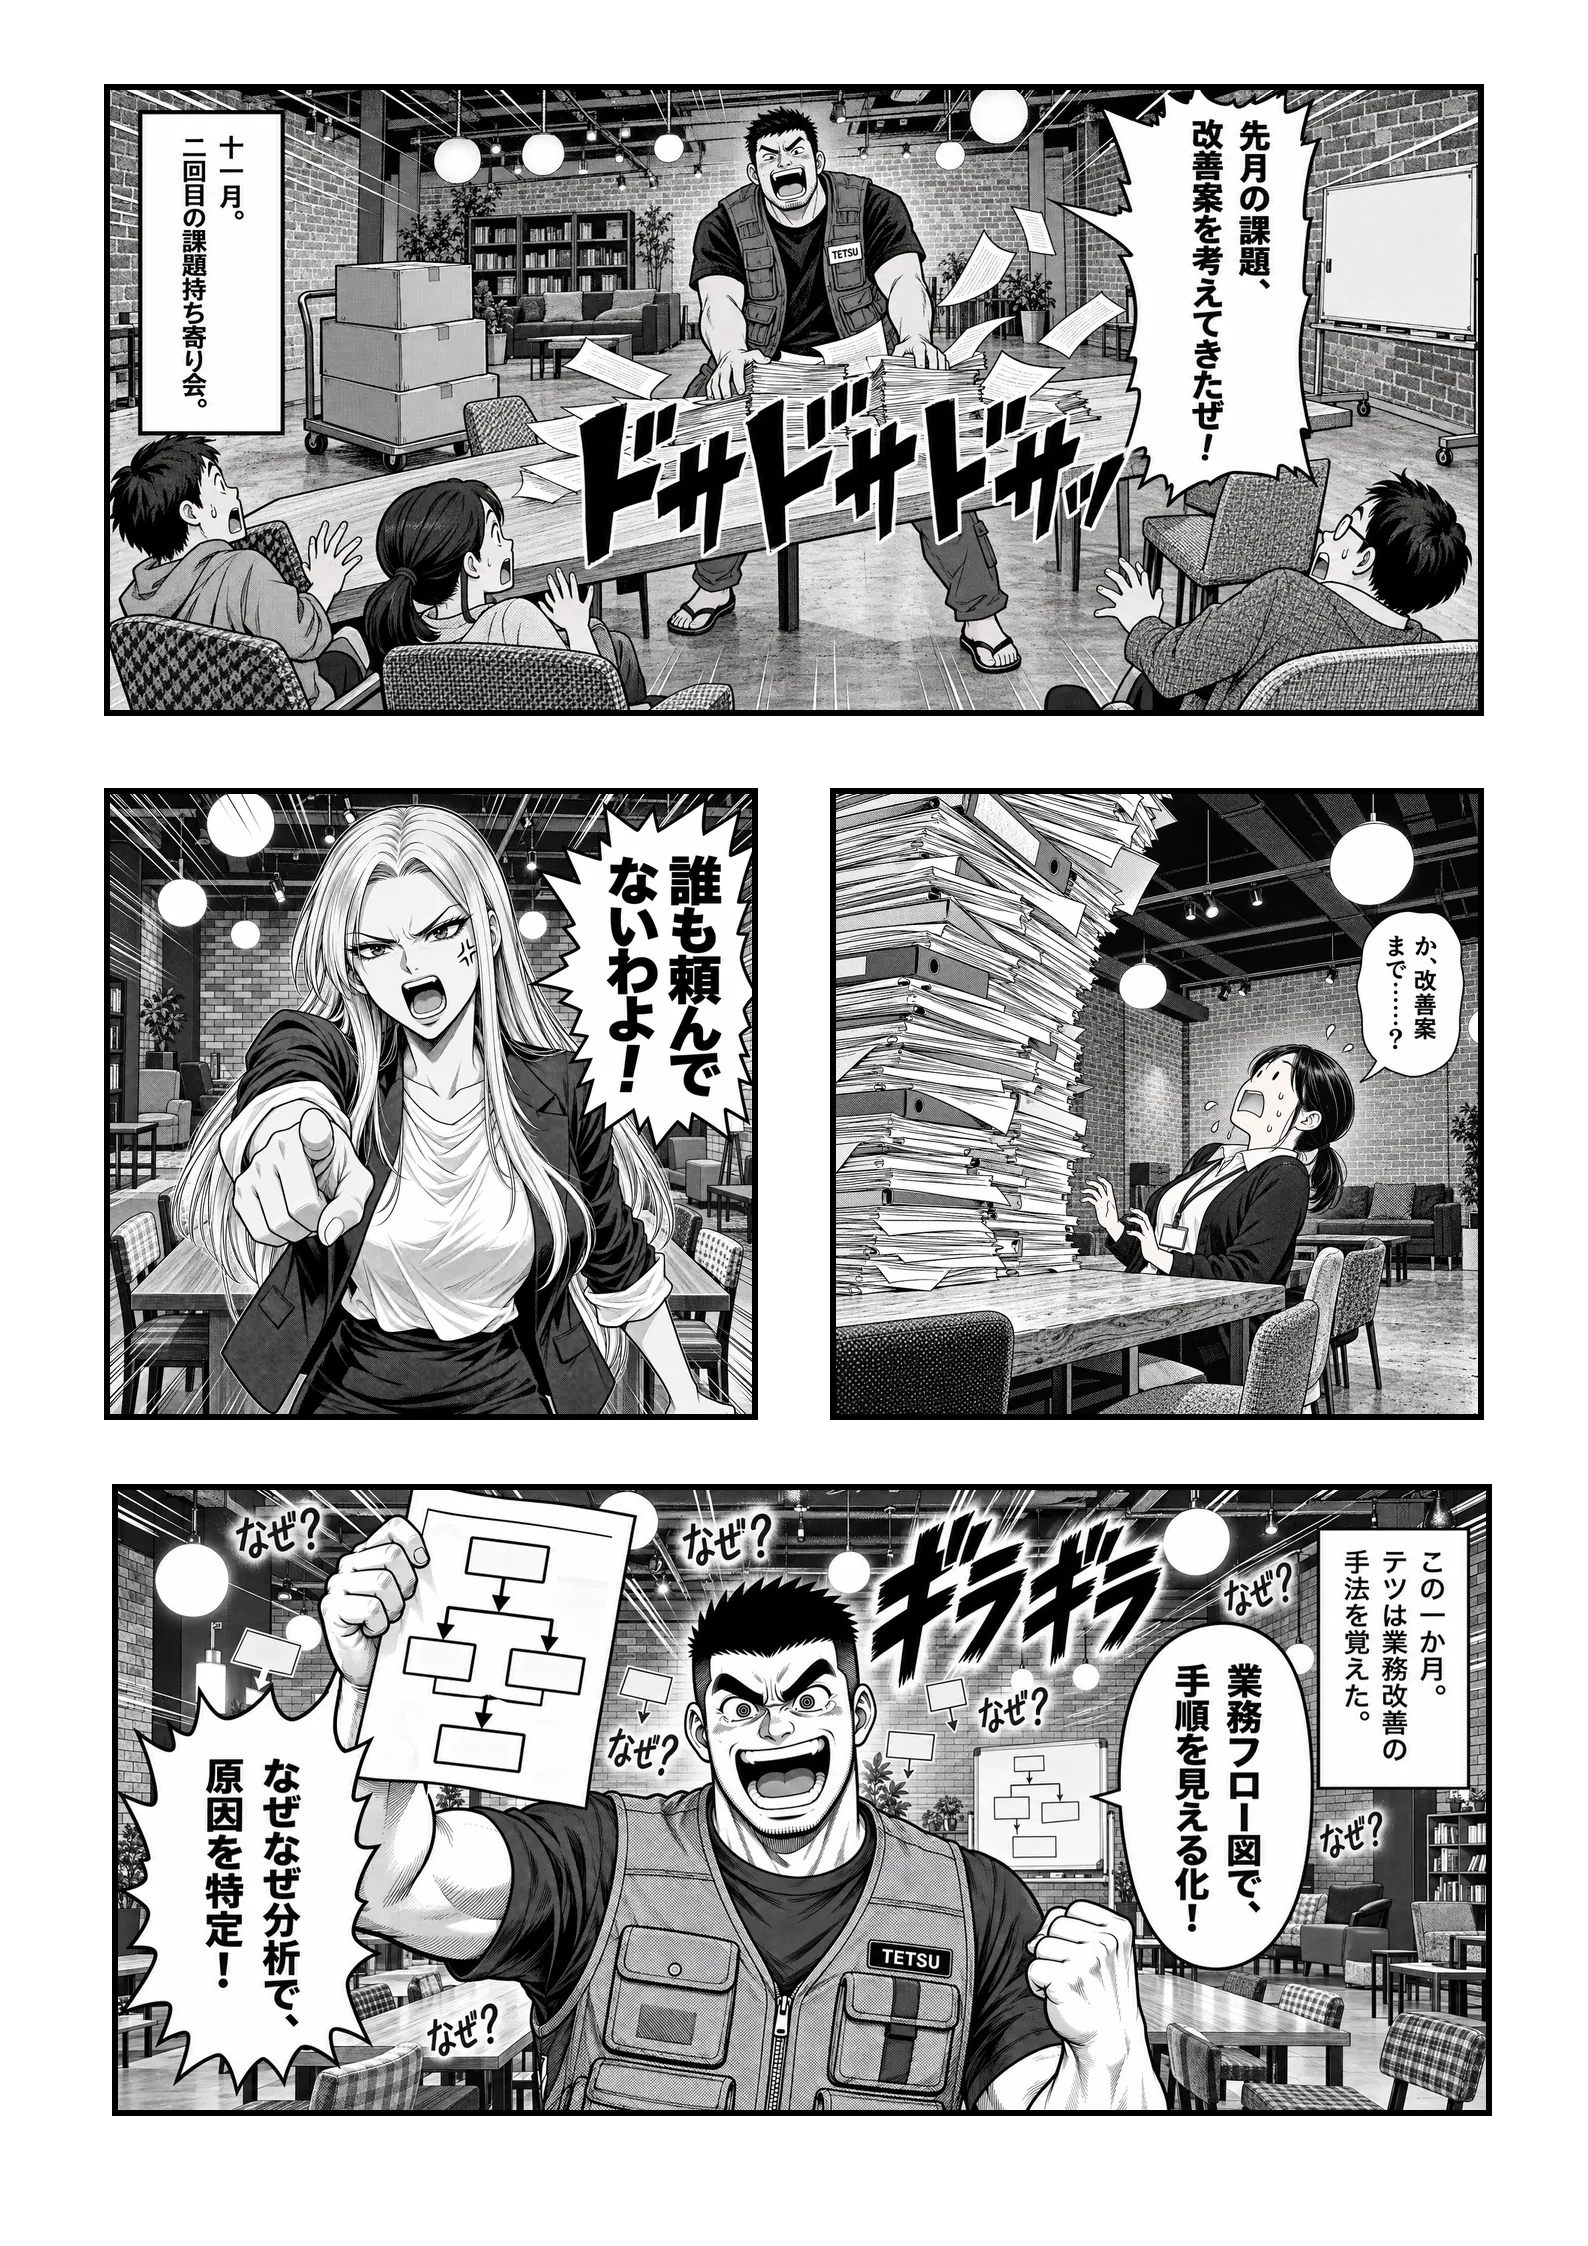
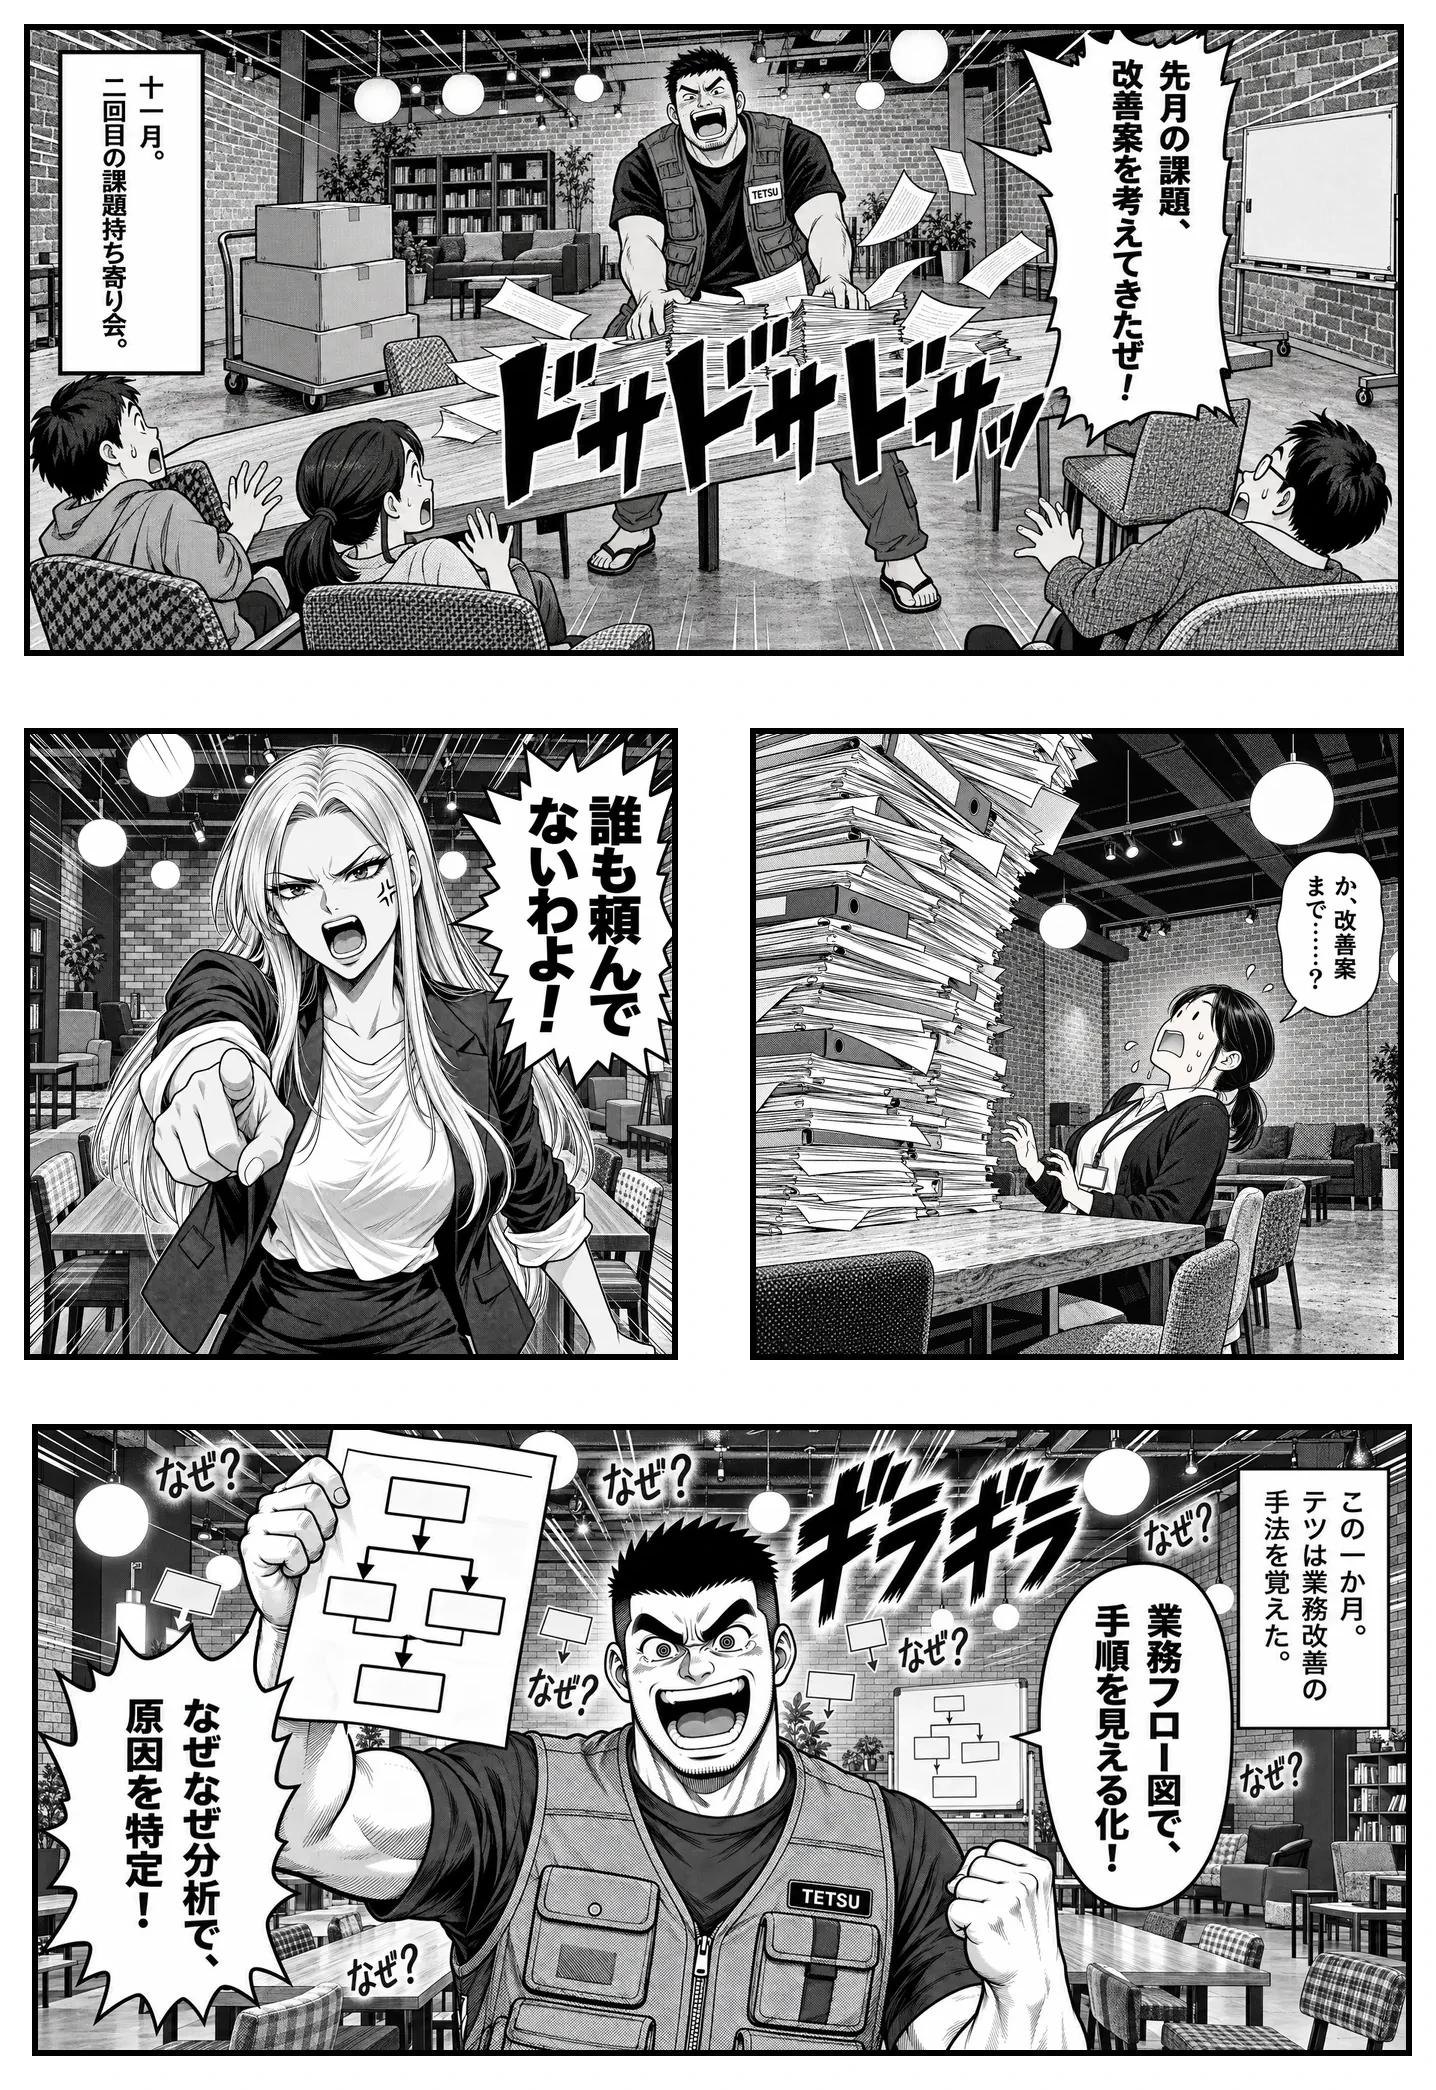
PCで大きく読めるようにする（横幅に合わせた1ページ表示・余白の切り落とし）
- 幅のある画面は1ページを横幅に合わせて（最大960px）縦スクロールで読む。見開きはボタンで選んだときだけ
- スペースキーはスクロールし、端まで来たらめくる
- マウスで読む画面では上下のバーを重ねて出し、上端・下端に寄せたときだけ出す
- build_pages.py でページの白い余白を切り落とす（第22話にも適用）

1920×960 の画面で、ページが 576×814 → 960×1397 になった。

diff --git a/assets/reader.js b/assets/reader.js
@@ -1,6 +1,7 @@
 // 行政バグります！ Webリーダー
 // 右開き（日本の漫画と同じ）：← キー・画面の左クリック・右へフリック（スワイプ）で次のページ、→ で前のページ。
-// 横長の画面では見開き（右が若いページ）、縦長の画面では1ページずつ表示する。
+// 1ページずつ表示する（見開きはボタンで選べる。右が若いページ）。
+// 幅のある画面では、ページを横幅に合わせて大きく置き、縦にスクロールして読む。
 (() => {
   'use strict';
 
@@ -32,11 +33,14 @@
   // 幅の狭い画面（スマホの縦持ち）は、見開きを選んでいても1ページずつ
   const isNarrow = () => window.innerWidth < 700;
 
-  function isSpread() {
-    if (isNarrow() || state.mode === 'single') return false;
-    if (state.mode === 'spread') return true;
-    return window.innerWidth >= 900 && window.innerWidth > window.innerHeight * 1.15;
-  }
+  // 見開きは選んだときだけ。A4 を2枚並べると PC でも文字が小さすぎて読めない
+  const isSpread = () => !isNarrow() && state.mode === 'spread';
+
+  // 1ページ表示で幅のある画面（PC・タブレット・スマホの横持ち）は、横幅に合わせて縦にスクロール
+  const isScroll = () => !isSpread() && !isNarrow();
+
+  // マウスで読む画面では、上下のバーを少し経ったら隠して、ページを広く見せる
+  const hasMouse = window.matchMedia('(hover: hover) and (pointer: fine)').matches;
 
   function buildViews() {
     const n = state.pages.length;
@@ -74,6 +78,8 @@
   function render() {
     const view = state.views[state.view];
     stage.classList.toggle('is-spread', view.length === 2);
+    stage.classList.toggle('is-scroll', isScroll());
+    stage.scrollTop = 0;
     stage.setAttribute('aria-busy', 'true');
     const imgs = view.map(makeImage);
     let pending = imgs.length;
@@ -131,7 +137,9 @@
     switch (e.key) {
       case 'ArrowLeft': case 'PageDown': next(); break;
       case 'ArrowRight': case 'PageUp': prev(); break;
-      case ' ': (e.shiftKey ? prev : next)(); break;
+      case ' ': e.shiftKey ? scrollOrPage(-1) : scrollOrPage(1); break;
+      case 'ArrowDown': if (!isScroll()) return; stage.scrollBy(0, 160); break;
+      case 'ArrowUp': if (!isScroll()) return; stage.scrollBy(0, -160); break;
       case 'Home': goTo(0); break;
       case 'End': goTo(state.views.length - 1); break;
       case 'Escape': if (state.ended) showEnd(false); else toggleUi(true); break;
@@ -139,6 +147,15 @@
     }
     e.preventDefault();
   });
+
+  // スペースキー：スクロールできる間はスクロールし、ページの端まで来たらめくる
+  function scrollOrPage(dir) {
+    if (isScroll()) {
+      const atEnd = dir > 0 ? stage.scrollTop + stage.clientHeight >= stage.scrollHeight - 4 : stage.scrollTop <= 4;
+      if (!atEnd) { stage.scrollBy(0, dir * stage.clientHeight * 0.85); return; }
+    }
+    (dir > 0 ? next : prev)();
+  }
 
   // 画面の左 4 割で次へ、右 4 割で前へ、真ん中はメニューの出し入れ。
   // 横に払ったら（指のフリック・マウスのドラッグ）、右へ払うと次、左へ払うと前
@@ -194,6 +211,25 @@
   if (document.fullscreenEnabled) {
     fsBtn.addEventListener('click', () => (document.fullscreenElement ? document.exitFullscreen() : document.documentElement.requestFullscreen()).catch(() => {}));
   } else fsBtn.hidden = true;
+
+  // バーは、マウスを画面の上端か下端へ持っていくと出て、離れて 2.5 秒経つと隠れる。
+  // 読んでいる間（ページの上でマウスを動かしている間）は出さない
+  if (hasMouse) {
+    app.classList.add('autohide');
+    let idle = 0, overBar = false;
+    const hideLater = () => {
+      clearTimeout(idle);
+      idle = setTimeout(() => { if (!overBar && !state.ended) toggleUi(false); }, 2500);
+    };
+    document.querySelectorAll('.bar').forEach(bar => {
+      bar.addEventListener('mouseenter', () => { overBar = true; clearTimeout(idle); });
+      bar.addEventListener('mouseleave', () => { overBar = false; hideLater(); });
+    });
+    document.addEventListener('mousemove', e => {
+      if (e.clientY < 80 || e.clientY > window.innerHeight - 120) { toggleUi(true); hideLater(); }
+    });
+    hideLater(); // 開いた直後はバーを見せて、どこで操作するかを知らせる
+  }
 
   let resizeTimer = 0;
   window.addEventListener('resize', () => { clearTimeout(resizeTimer); resizeTimer = setTimeout(() => relayout(), 120); });

diff --git a/assets/reader.css b/assets/reader.css
@@ -37,6 +37,17 @@ body.reader-body { background: var(--stage-bg); color: var(--bar-fg); overflow: 
   -webkit-user-drag: none;
 }
 .stage.is-spread .page { max-width: calc(50% - var(--gap) / 2); }
+
+/* 横幅に合わせて縦にスクロール（幅のある画面の1ページ表示）。広すぎると1ページが長くなりすぎるので 960px まで */
+.stage.is-scroll {
+  display: block; overflow-x: hidden; overflow-y: auto; overscroll-behavior: contain;
+  touch-action: pan-y pinch-zoom;
+  scrollbar-color: #555 transparent;
+}
+.stage.is-scroll .page { width: min(100%, 960px); max-width: none; max-height: none; margin: 0 auto; }
+
+/* マウスで読む画面：バーはページの上に重ねて出し入れする（ページの大きさはバーの分を取らない） */
+.reader.autohide .stage { padding: 8px; }
 .stage[aria-busy="true"] { background: radial-gradient(circle at center, #262626 0, var(--stage-bg) 60%); }
 
 /* ---- 上下のバー（真ん中タップで隠す） ---- */

diff --git a/SERVICE_SPEC.md b/SERVICE_SPEC.md
@@ -15,8 +15,10 @@
 ## 3. 機能一覧
 ### 実装済み
 - [x] 作品トップ — episodes.json からエピソードの一覧を作る（新しい話が上）
-- [x] 読む画面 — 右開き。←キー・左クリック・右スワイプで次へ、→で前へ
-- [x] 見開き表示 — 横長の画面は2ページ（右が若いページ）。1ページ表示への切り替えは端末に覚える
+- [x] 読む画面 — 右開き。←キー・左クリック・右フリックで次へ、→で前へ
+- [x] 1ページ表示（標準） — 幅700px以上は横幅に合わせて（最大960px）縦スクロール。A4 を画面の高さに収めると PC でも文字が 6〜8px になって読めないため
+- [x] 見開き表示 — ボタンで選んだときだけ2ページ（右が若いページ）。選んだ表示は端末に覚える
+- [x] バーの自動非表示 — マウスで読む画面では、上端・下端にマウスを寄せたときだけ上下のバーを出す
 - [x] スマホ表示 — 幅700px未満は常に1ページ
 - [x] 先読み — 前後のページ画像を先に読み込む
 - [x] ページへの直接リンク — `#p=5`（扉絵は `#p=0`）
@@ -65,3 +67,4 @@
 | 日付 | 内容 |
 |---|---|
 | 2026-09-18 | 初版作成（第22話「課題、持ち帰ります」。仕切り直し前の旧26話） |
+| 2026-09-19 | GitHub Pages で公開。フリック対応（iPhone）、PC は横幅に合わせた1ページ表示を標準に、バーの自動非表示、ページの余白を切り落とし |

diff --git a/README.md b/README.md
@@ -3,7 +3,10 @@
 梨ヶ坂市役所の地下にある「特務トレンド係」を舞台にした、1話完結のギャグ漫画をWebで読むためのサイトです。
 
 - 右開き（日本の漫画と同じ）：`←` キー・画面の左クリック・右へフリック（スワイプ）で次のページ、`→` で前のページ
-- 横長の画面では見開き（右が若いページ）、スマホの縦持ちでは1ページずつ
+- 1ページずつ表示する。PC など幅のある画面では、ページを横幅に合わせて（最大 960px）大きく置き、縦にスクロールして読む。スペースキーはスクロールして、ページの端まで来たらめくる
+- 見開き（右が若いページ）はボタンで選べる
+- マウスで読む画面では、上下のバーは画面の上端か下端にマウスを持っていくと出る
+- ページ画像は紙の白い余白を切り落としてある（`build_pages.py` が自動で切る）
 - `#p=5` を付けたリンクで、そのページから開ける
 
 ## 構成
